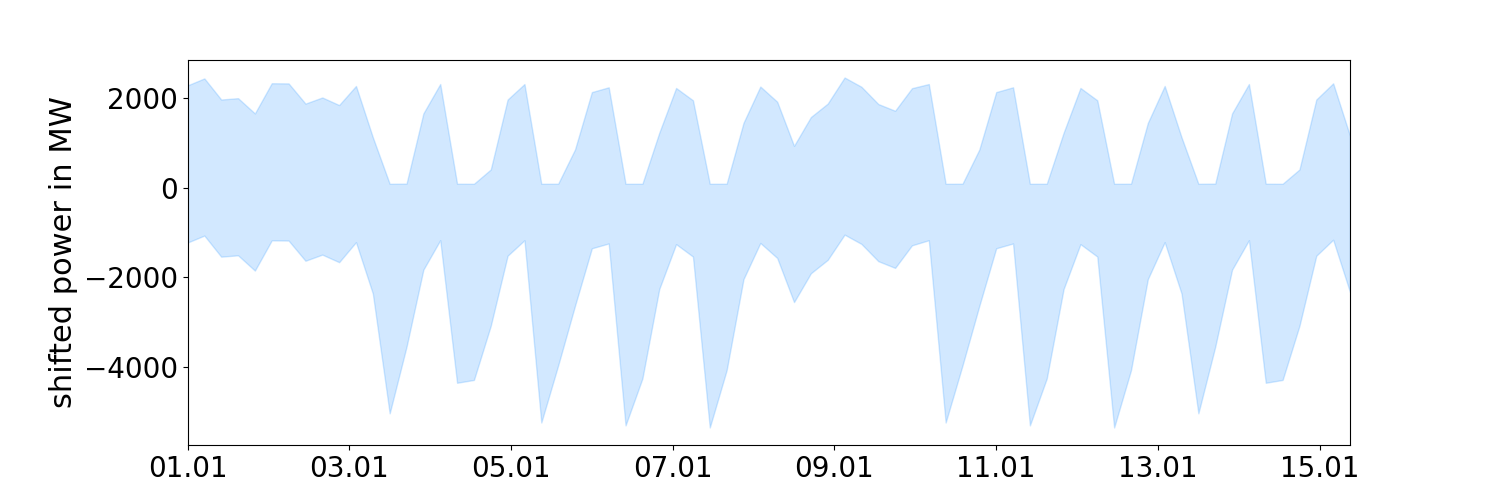
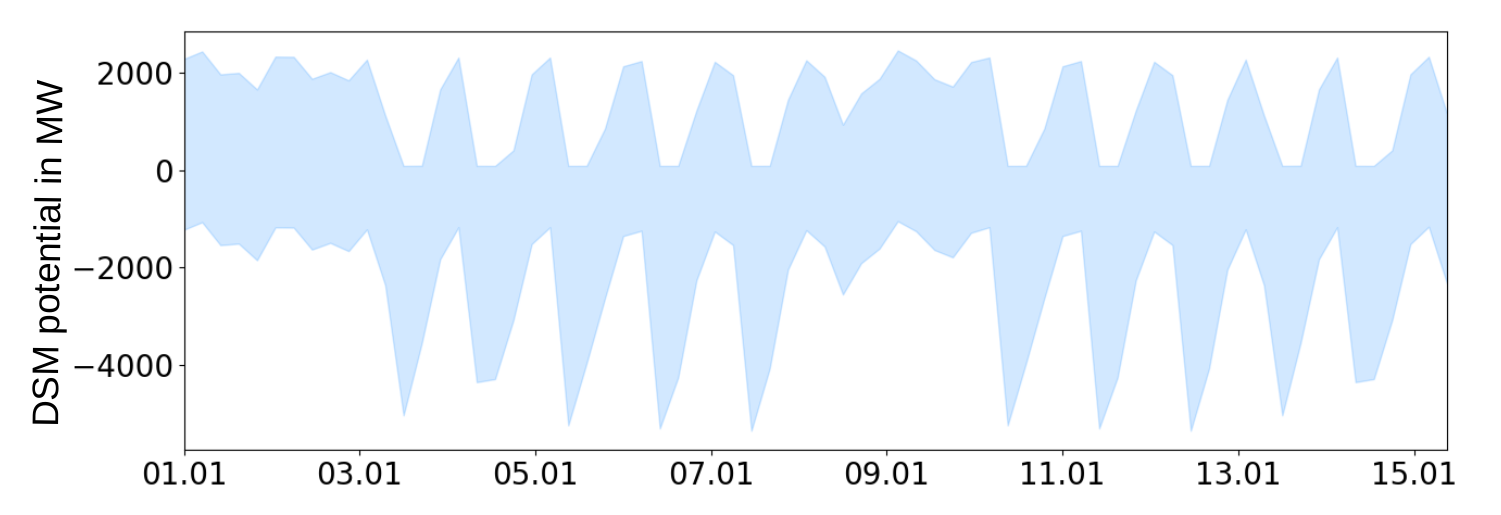
Corrections concerning DSM

Changed region(s): [[0.0, 0.06, 0.9813, 0.84], [0.092, 0.87, 0.9813, 0.96]]

diff --git a/docs/data/DSM.rst b/docs/data/DSM.rst
@@ -1,15 +1,17 @@
 Demand-side management (DSM) potentials are calculated in function :func:`dsm_cts_ind_processing<egon.data.datasets.DSM_cts_ind.dsm_cts_ind_processing>`. 
 Potentials relevant for the high and extra-high voltage grid are identified in the function :func:`dsm_cts_ind<egon.data.datasets.DSM_cts_ind.dsm_cts_ind>`, 
 potentials within the medium- and low-voltage grids are determined within the function :func:`dsm_cts_ind_individual<egon.data.datasets.DSM_cts_ind.dsm_cts_ind_individual>` 
-in a higher spatial resolution. All this is part of the dataset :py:class:`DsmPotential <egon.data.datasets.DsmPotential>`.
+in a higher spatial resolution. All this is part of the dataset :py:class:`DsmPotential <egon.data.datasets.DsmPotential>`. 
+The implementation is documented in detail within the following student work (in German): [EsterlDentzien]_.
 
 Loads eligible to be shifted are assumed within industrial loads and loads from Commercial, Trade and Service (CTS). 
 Therefore, load time series from these sectors are used as input data (see section ref:`elec_demand-ref`).
 Shiftable shares of loads mainly derive from heating and cooling processes and selected energy-intensive 
 industrial processes (cement production, wood pulp, paper production, recycling paper). Technical and sociotechnical 
 constraints are considered using the parametrization elaborated in [Heitkoetter]_. An overview over the 
-resulting potentials can be seen in figure :ref:`dsm_potential`. The table below summarizes the aggregated potential 
-for Germany per scenario. 
+resulting potentials for scenario ``eGon2035`` can be seen in figure :ref:`dsm_potential`. The table below summarizes the 
+aggregated potential for Germany per scenario. As the annual conventional electrical loads are assumed to be lower in the 
+scenario ``eGon100RE``, also the DSM potential decreases compared to the scenario ``eGon2035``.
 
 .. figure:: /images/DSM_potential.png
   :name: dsm_potential

diff --git a/docs/literature.rst b/docs/literature.rst
@@ -16,6 +16,8 @@ Literature
 
 .. [Energiereferenzprognose] Prognos AG, Energiewirtschaftliches Institut an der Universität zu Köln, Gesellschaft für Wirtschaftliche Strukturforschung mbH: Entwicklung der Energiemärkte – Energiereferenzprognose (2014)
 
+.. [EsterlDentzien] Katharina Esterl, Hannah Dentzien, Integration von Demand Side Management in eTraGo, Student Work, Hochschule Flensburg, URL https://ego-n.org/theses/2021_SP_Esterl_Dentzien_DSM-eTraGo.pdf
+
 .. [eXtremOS] A. Guminski, C. Fiedler, S. Kigle, C. Pellinger, P. Dossow, K. Ganz, F. Jetter, T. Kern, T. Limmer, A. Murmann, J. Reinhard, T. Schmid, T. Schmidt-Achert, S. von Roon, eXtremOS Summary Report (2021). doi:https://doi.org/10.34805/ffe-24-21.
 
 .. [FfE2017] Flexibilisierung der Kraft-Wärme-Kopplung; 2017; Forschungsstelle für Energiewirtschaft e.V. (FfE)
